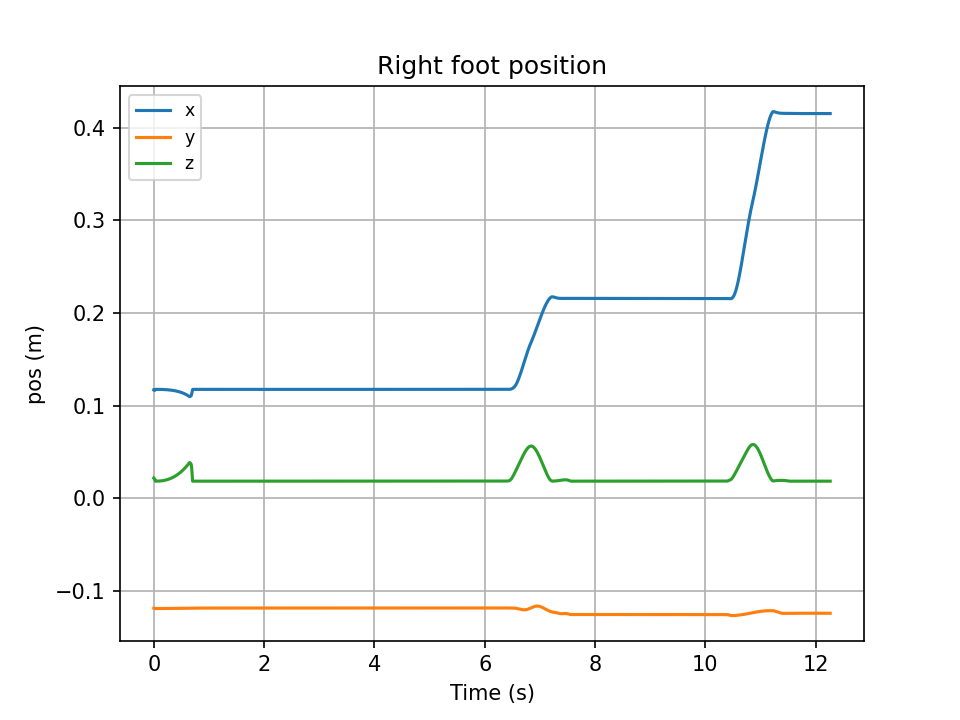
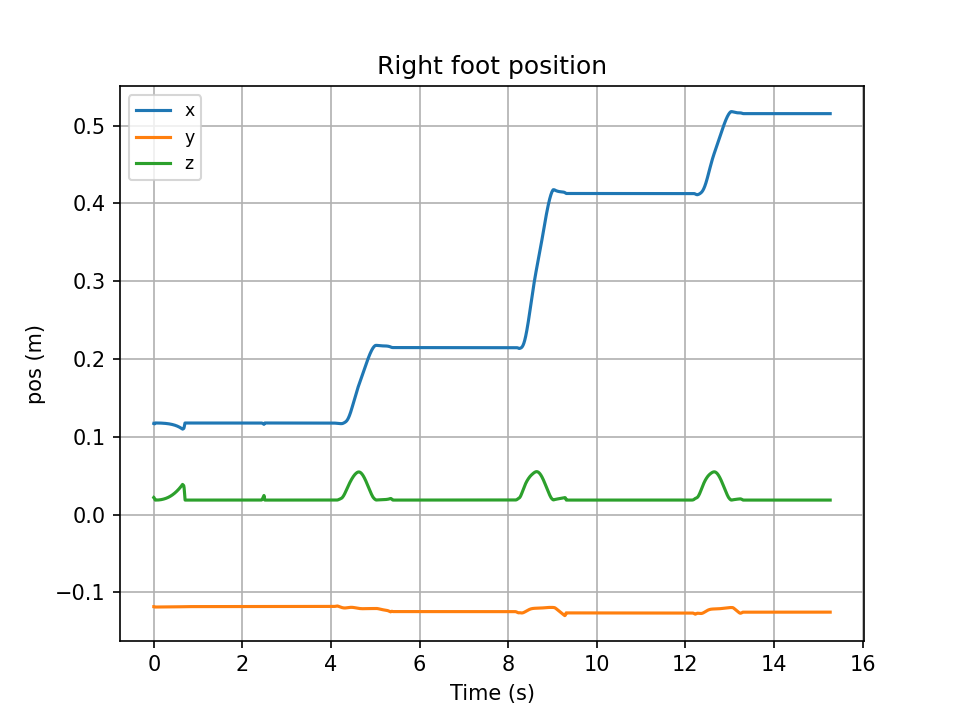
DCM planner bien puesto

diff --git a/controller/whole_body_controller/managers/dcm_trajectory_manager.cpp b/controller/whole_body_controller/managers/dcm_trajectory_manager.cpp
@@ -170,9 +170,21 @@ void DCMTrajectoryManager::UpdateDesired(const double current_time) {
 
   // Eigen::Vector3d des_dcm_pos = dcm_planner_->GetRefDCM(current_time);
   // Eigen::Vector3d des_dcm_vel = dcm_planner_->GetRefDCMVel(current_time);
+  
   Eigen::Vector3d des_com_pos = dcm_planner_->GetRefCoMPos(current_time);
   Eigen::Vector3d des_com_vel = dcm_planner_->GetRefCoMVel(current_time);
   Eigen::Vector3d des_com_acc = dcm_planner_->GetRefCoMAcc(current_time);
+
+  // Calculo del offset
+
+  Eigen::Vector3d f_ext_pure = Eigen::Vector3d::Zero();
+
+  if ((f_ext_.rows() == 1 or f_ext_.cols() == 1) && f_ext_.size() >= 3) {
+    f_ext_pure = Eigen::Map<const Eigen::VectorXd>(f_ext_.data(), f_ext_.size()).head<3>();
+  }
+
+  des_com_pos -= dt_*b_/mass_ * f_ext_pure;
+  des_com_vel -= b_/mass_ * f_ext_pure;
 
   Eigen::Quaterniond des_ori_quat = Eigen::Quaterniond::Identity();
   Eigen::Vector3d des_ang_vel = Eigen::Vector3d::Zero();

diff --git a/planner/locomotion/dcm_planner/dcm_planner.cpp b/planner/locomotion/dcm_planner/dcm_planner.cpp
@@ -459,12 +459,12 @@ Eigen::Vector3d DCMPlanner::GetRefDCM(const double t_global) const {
   if (t <= _GetDoubleSupportEndTime(step_idx)) {
     // use polynomial interpolation
     local_time = t - _GetDoubleSupportStartTime(step_idx);
-    return _GetDCMDoubleSupportPoly(step_idx, local_time) + offset_;
+    return _GetDCMDoubleSupportPoly(step_idx, local_time);
     // return _GetDCMDoubleSupportMinJerk(step_idx, local_time);
   } else {
     // use exponential interpolation
     local_time = t - _GetTimeStepStart(step_idx);
-    return _GetDCMExponential(step_idx, local_time)+ offset_;
+    return _GetDCMExponential(step_idx, local_time);
   }
 }
 Eigen::Vector3d DCMPlanner::GetRefDCMVel(const double t_global) const {

diff --git a/controller/g1_controller/g1_controller.cpp b/controller/g1_controller/g1_controller.cpp
@@ -16,6 +16,7 @@
 #include "controller/whole_body_controller/wbic/wbic.hpp"
 #include "util/clock.hpp"
 #include "util/interpolation.hpp"
+#include "controller/whole_body_controller/managers/dcm_trajectory_manager.hpp"
 
 #if B_USE_ZMQ
 #include "controller/g1_controller/g1_data_manager.hpp"
@@ -709,5 +710,7 @@ void G1Controller::SetExternalForce(const Eigen::MatrixXd& f_ext)
     if (wbic_) {                       // cuando usas WBIC
         wbic_->SetExternalForce(f_ext);
     }
+
+    if (dcm_trajectory_manager_) dcm_trajectory_manager_->SetExternalForce(f_ext);
 }
 

diff --git a/controller/g1_controller/g1_controller.hpp b/controller/g1_controller/g1_controller.hpp
@@ -24,6 +24,8 @@ public:
   void SetExternalTorque(const Eigen::VectorXd &tau_ext);
   void SetExternalForce(const Eigen::MatrixXd &f_ext);
 
+  void BindDCM(DCMTrajectoryManager *dcm_tm) { dcm_trajectory_manager_ = dcm_tm; }
+
 private:
   PinocchioRobotSystem *robot_;
   G1TCIContainer *tci_container_;
@@ -35,6 +37,7 @@ private:
   JointIntegrator *joint_integrator_;
   // WBIC
   WBC *wbic_;
+  DCMTrajectoryManager *dcm_trajectory_manager_{nullptr};
 
   Eigen::VectorXd joint_pos_cmd_;
   Eigen::VectorXd joint_vel_cmd_;

diff --git a/controller/whole_body_controller/managers/dcm_trajectory_manager.hpp b/controller/whole_body_controller/managers/dcm_trajectory_manager.hpp
@@ -95,6 +95,10 @@ public:
   // setter (for operator UI)
   int *GetNumSteps();
 
+  void SetExternalForce(const Eigen::MatrixXd &f_ext) {
+    f_ext_ = f_ext;
+  }
+
 private:
   DCMPlanner *dcm_planner_;
   Task *com_xy_task_;
@@ -132,4 +136,10 @@ private:
   void _UpdateFootStepsPreviewList(const int max_foot_steps_preview);
   void _ResetIndexAndClearFootSteps();
   void _AlternateLeg();
+
+  Eigen::MatrixXd f_ext_;
+
+  double mass_{35.11};
+  double b_{0.25};
+  double dt_{0.00125};
 };

diff --git a/controller/whole_body_controller/ihwbc/ihwbc.cpp b/controller/whole_body_controller/ihwbc/ihwbc.cpp
@@ -498,6 +498,7 @@ void IHWBC::Solve(const std::unordered_map<std::string, Task *> &task_map,
 
     bool printed_ = false;
     
+    
     for (int i = 0; i < slack.size(); ++i) {
     
       std::string tag = "ineq_row[" + std::to_string(i) + "]";
@@ -520,6 +521,7 @@ void IHWBC::Solve(const std::unordered_map<std::string, Task *> &task_map,
     if (printed_){
         std::cout << "==================="<< std::endl;
     }
+    
   }
 }
 

diff --git a/planner/locomotion/dcm_planner/dcm_planner.hpp b/planner/locomotion/dcm_planner/dcm_planner.hpp
@@ -234,11 +234,4 @@ protected:
                       const double upper_bound) const;
   int _ClampInt(const int dur, const int lower_bound,
                 const int upper_bound) const;
-
-private:
-  double F_x_ = -10;
-  double M_y_ = 0;
-  double F_x_plus_torque_ = F_x_ + M_y_/z_vrp_; 
-  double offset_F_ = -b_ * b_ * F_x_plus_torque_ /mass_ ;
-  Eigen::Vector3d offset_ = Eigen::Vector3d(offset_F_, 0.0, 0.0);
 };

diff --git a/simulator/pybullet/g1_main.py b/simulator/pybullet/g1_main.py
@@ -328,6 +328,8 @@ def main():
             #print("globals: ", f_ext_local)
             f_ext = group_tripod(f_ext_local, g1_humanoid, Config.link_idx_vec, Config.left_ids, Config.right_ids, Config.pelvis_ids, ref_W = com_W)
 
+            if Config.onlyForce:
+                f_ext = f_ext.sum(axis = 0)
            
             rpc_g1_interface.set_external_force(f_ext)
                 

diff --git a/controller/whole_body_controller/ihwbc/ihwbc.hpp b/controller/whole_body_controller/ihwbc/ihwbc.hpp
@@ -48,10 +48,13 @@ public:
     f_ext_ = f_ext;
   }
 
-  private:
+private:
 
   Eigen::VectorXd tau_ext_;
   Eigen::MatrixXd f_ext_;
+
+  int iter_{0};
+  int print_every_{100};
 
 
 protected:
@@ -100,9 +103,4 @@ protected:
   /// QP inequality constraint.
   GolDIdnani::GMatr<double> CI_;
   GolDIdnani::GVect<double> ci0_;
-
-private:
-
-  int iter_{0};
-  int print_every_{100};
 };

diff --git a/controller/g1_controller/g1_control_architecture.cpp b/controller/g1_controller/g1_control_architecture.cpp
@@ -75,6 +75,7 @@ G1ControlArchitecture::G1ControlArchitecture(PinocchioRobotSystem *robot,
       tci_container_->task_map_["torso_ori_task"], robot_,
       g1_link::l_foot_contact, g1_link::r_foot_contact,
       sp_->b_use_base_height_);
+  controller_-> BindDCM(dcm_tm_);
   dcm_tm_->InitializeParameters(cfg["dcm_walking"]);
 
   lf_SE3_tm_ = new EndEffectorTrajectoryManager(

diff --git a/simulator/pybullet/g1_files/external_forces.py b/simulator/pybullet/g1_files/external_forces.py
@@ -20,7 +20,7 @@ def apply_external_forces(robot, t):
 
     if t > 2:
 
-        F = [-10, 0, 0]
+        F = [-20, 0, 0]
         pb.applyExternalForce(robot, -1, F, [0.0, 0.0, 0.0], pb.WORLD_FRAME)
     
     return F

diff --git a/config/g1/sim/pybullet/ihwbc/pybullet_params.py b/config/g1/sim/pybullet/ihwbc/pybullet_params.py
@@ -14,7 +14,7 @@ class Config(object):
     random_frequency = 0.5
 
     initForce = 2 # sec
-
+    onlyForce = True
 
     # Sections data
     N_sample = 10
